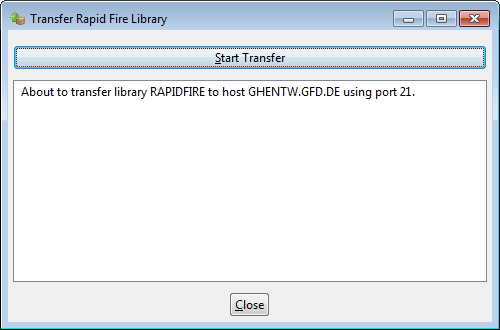
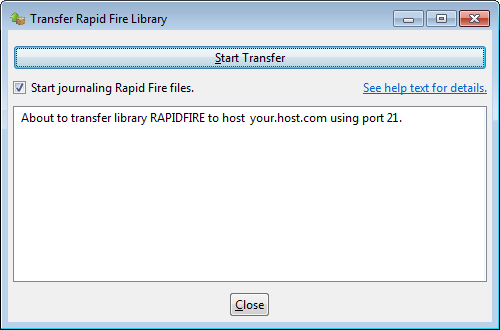
Updated help text to match the changes of "Transfer Rapid Fire Library" dialog.
git-svn-id: https://svn.code.sf.net/p/rapid-fire/code/trunk@516 204b35f7-77ee-4d18-9f52-29c5b7e57490

Changed region(s): [[0.03, 0.2424, 0.99, 0.303], [0.03, 0.3333, 0.81, 0.3939]]

diff --git a/eclipse/Rapid Fire Help Plugin/html/install/install_library.html b/eclipse/Rapid Fire Help Plugin/html/install/install_library.html
@@ -14,6 +14,24 @@
 &nbsp;•&nbsp;
 <a href="../deploying_files_today/deploying_files_today.html">Next page</a>
 <p>
+<a id="before_you_begin"></a>
+Before you begin:
+<p>
+<table>
+	<tr>
+		<td class="notice"><b>Notice</b>:<br>
+		                   Rapid Fire uses commitment control to update its files. Therefore a journal 
+		                   must be attached to all Rapid Fire files. By default the Rapid Fire installer
+		                   ensures that journaling is started for all Rapid Fire files.<br>
+		                   But in case that you have installed a high availability software that also use
+		                   journals to keep track of object changes, you may need to install Rapid Fire
+		                   without a journal, because that is attached by your HA software.<br><br>
+		                   <font color="red">Please uncheck "Start journaling Rapid Fire files" on the 
+		                   "Transfer Rapid Fire Library" dialog to transfer the Rapid Fire library 
+		                   without attaching a journal to the Rapid Fire files.</font></td>
+	</tr>
+</table>
+<p>
 Before you proceed:
 <p>
 <table>
@@ -57,8 +75,9 @@ Follow these steps to install the Rapid Fire library from the host:
     system and enter the user and password to be used to connect to the host.<p>
     <img src="./assets/signon.png" /><p></li>
 <li>Click the [OK] button to proceed.<p></li>
-<li>On the following &quot;Transfer Rapid Fire library&quot; dialog, click 
-    [Start Transfer] to start the FTP transfer.<p>
+<li>On the following &quot;Transfer Rapid Fire library&quot; dialog, specify whether
+    to start journaling the Rapid Fire files and then click [Start Transfer] to start 
+    the FTP transfer.<p>
     <img src="./assets/transfer_start.png" /><p></li>
 <li>If the Rapid FIre library already exists, you will be asked to confirm 
     that you want to delete it:<p>
